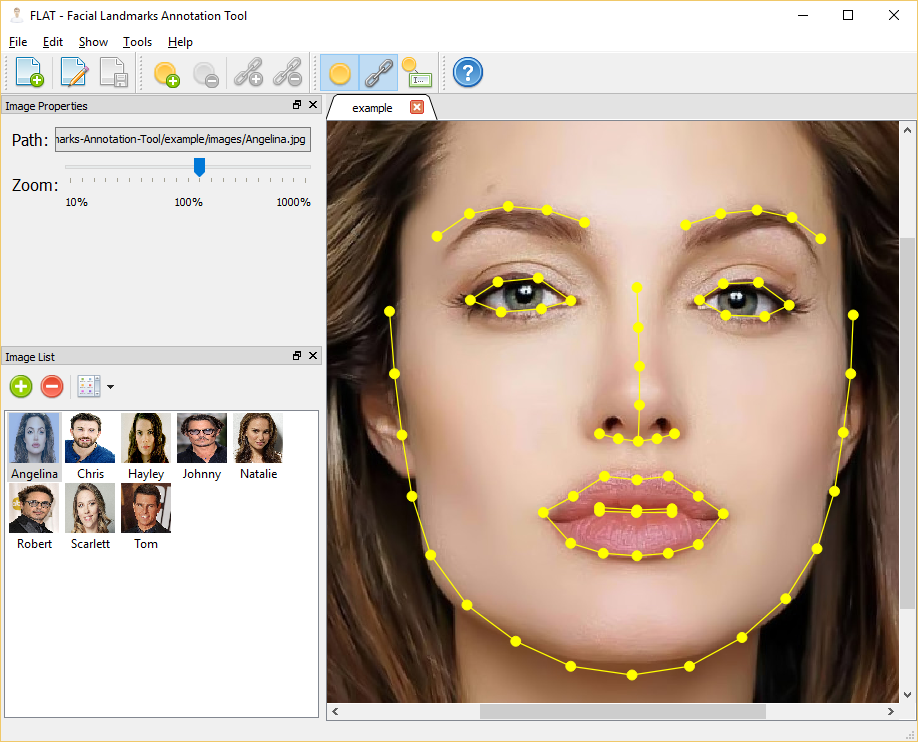
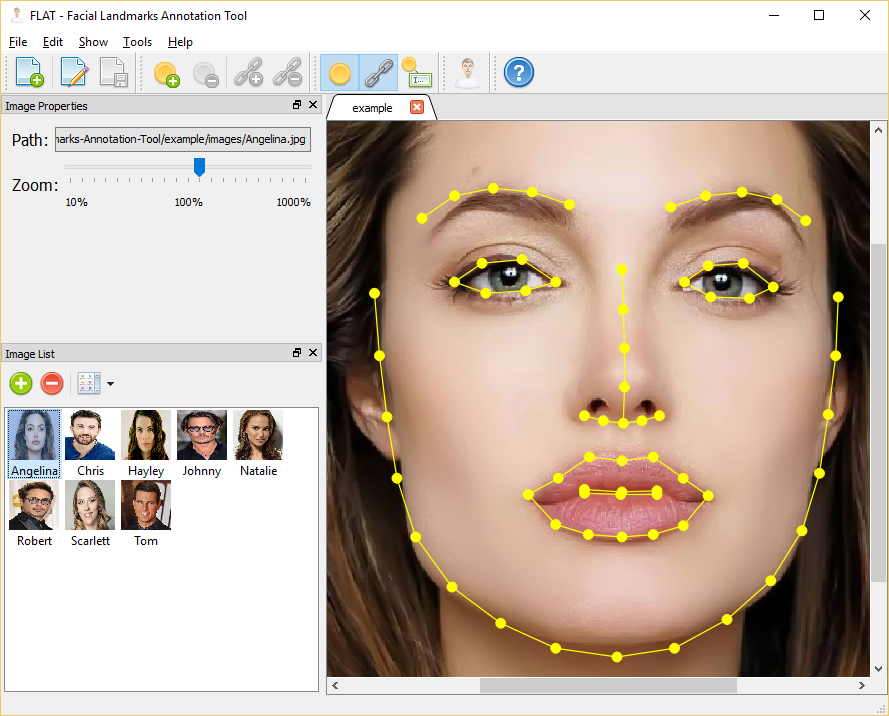
Added the face-fit button to toolbar; fixed its enabled/disabled status

diff --git a/src/mainwindow.cpp b/src/mainwindow.cpp
@@ -356,7 +356,7 @@ void ft::MainWindow::onFitFinished(int iExitCode, QProcess::ExitStatus eExitStat
 	QFileInfo oFileInfo(m_sFitTempFile);
 	if (!oFileInfo.exists())
 	{
-		showStatusMessage(tr("The face fit utility executable seems to have returned no result. Please check its configuration."));
+		showStatusMessage(tr("The face fit utility could not fit the landmarks to this image."));
 		QFile::remove(m_sFitTempFile);
 		m_sFitTempFile = "";
 		return;
@@ -365,7 +365,7 @@ void ft::MainWindow::onFitFinished(int iExitCode, QProcess::ExitStatus eExitStat
 	vector<QPoint> vPoints = Utils::readFaceFitPointsFile(m_sFitTempFile);
 	if (vPoints.size() == 0)
 	{
-		showStatusMessage(tr("The face fit utility executable seems to have returned a wrong result. Please check its configuration."));
+		showStatusMessage(tr("The face fit utility could not fit the landmarks to this image."));
 		QFile::remove(m_sFitTempFile);
 		m_sFitTempFile = "";
 		return;
@@ -677,6 +677,7 @@ void ft::MainWindow::updateUI()
 	ui->actionRemoveFeature->setEnabled(bFeaturesSelected);
 	ui->actionConnectFeatures->setEnabled(bFeaturesConnectable);
 	ui->actionDisconnectFeatures->setEnabled(bConnectionsSelected);
+	ui->actionFitLandmarks->setEnabled(bItemsSelected);
 	m_pViewButton->setEnabled(bFileOpened);
 	ui->zoomSlider->setEnabled(bFileOpened);
 
